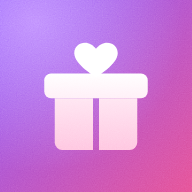
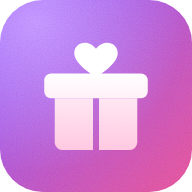
앱 인트로 화면 제거, 스플래시 아이콘 모서리 굴리기, 썸네일 테두리
설치형 PWA는 앱을 켤 때 브라우저가 먼저 제 스플래시(아이콘 + 앱 이름)를 띄운다.
그 뒤에 우리 인트로가 또 나와 같은 인사를 두 번 하고 있었다. 브라우저 것은 끌 수
없으므로 우리 것을 뺐다(최소 1.8초 대기도 같이 사라진다). 준비되는 동안에는
조용한 로딩 화면만 쓴다.

브라우저 스플래시는 매니페스트 아이콘을 마스크 없이 그대로 얹는다. 런처용으로
모서리를 비워둔 파일이라 정사각형으로 나와 깨져 보였다. purpose=any 인 192·512
PNG에만 모서리를 구워 넣는다. 마스커블과 apple-touch-icon은 플랫폼이 직접
깎으므로 그대로 둔다(두 번 깎이면 가장자리가 지저분해진다).

썸네일에는 아주 연한 테두리를 넣었다. 흰 배경 상품 사진이 카드와 경계가 없어
허공에 떠 보였다.

diff --git a/client/src/components/AuthGate.jsx b/client/src/components/AuthGate.jsx
@@ -6,34 +6,13 @@ import { FamilyContext } from '../FamilyContext';
 import LoginScreen from './LoginScreen';
 import FamilyOnboarding from './FamilyOnboarding';
 import ConsentScreen from './ConsentScreen';
-import SplashScreen from './SplashScreen';
 import LoadingScreen from './LoadingScreen';
 
-// 스플래시가 깜빡이고 사라지면 오히려 산만해서, 한 번 뜨면 최소 이 시간만큼은 보여준다.
-const MIN_SPLASH_MS = 1800;
-
-// 인트로 스플래시는 "앱을 켰을 때 한 번"만 보여준다.
-// 구글/네이버 로그인은 외부 페이지로 나갔다 돌아오는 리다이렉트 방식이라 앱이 통째로 새로
-// 로드되는데, 그때마다 인트로가 다시 뜨면 성가시다. sessionStorage는 같은 탭(설치형 PWA라면
-// 같은 앱 실행) 안에서는 리다이렉트를 건너뛰어도 유지되므로, 이걸로 "이미 봤음"을 기억한다.
-const SPLASH_SHOWN_KEY = 'moacon:splash-shown';
-
-function readSplashShown() {
-  try {
-    return sessionStorage.getItem(SPLASH_SHOWN_KEY) === '1';
-  } catch {
-    // 사파리 프라이빗 모드 등에서 접근이 막히면 그냥 매번 보여준다.
-    return false;
-  }
-}
-
-function markSplashShown() {
-  try {
-    sessionStorage.setItem(SPLASH_SHOWN_KEY, '1');
-  } catch {
-    // 저장 못 해도 동작에는 지장 없다.
-  }
-}
+// 예전에는 여기서 로고와 한 줄 소개를 보여주는 인트로 화면을 최소 1.8초 띄웠다.
+// 그런데 설치형 PWA는 앱을 켤 때 브라우저가 먼저 제 스플래시(아이콘 + 앱 이름)를
+// 띄우기 때문에, 우리 인트로가 그 뒤에 또 나와 같은 인사를 두 번 하는 꼴이었다.
+// 브라우저 것은 우리가 끌 수 없으므로 우리 것을 뺐다. 준비되는 동안에는 조용한
+// 로딩 화면만 쓴다.
 
 // 여러 가족에 속해 있을 수 있어서, 마지막으로 보던 가족을 기억해뒀다가 다음에도 그대로 연다.
 const LAST_FAMILY_KEY = 'moacon:family-id';
@@ -74,19 +53,6 @@ export default function AuthGate({ children }) {
   // 다시 읽어온 가족 정보와 견주어 볼 "지금 값". 비교만 하는 용도라 화면을 다시 그리지 않는다.
   const familyRef = useRef(familyState);
   familyRef.current = familyState;
-  // 이번 화면 로드 이전에 이미 인트로를 봤는지(= 로그인 리다이렉트 등으로 돌아온 상황인지).
-  const [introShownBefore] = useState(readSplashShown);
-  const [splashDone, setSplashDone] = useState(introShownBefore);
-
-  useEffect(() => {
-    if (splashDone) return;
-    markSplashShown();
-    const timer = setTimeout(() => setSplashDone(true), MIN_SPLASH_MS);
-    return () => clearTimeout(timer);
-    // 최초 마운트에서만 판단하면 되는 값이라 의존성은 비워둔다.
-    // eslint-disable-next-line react-hooks/exhaustive-deps
-  }, []);
-
   useEffect(() => {
     getSession().then(setSession);
     return onAuthStateChange(setSession);
@@ -184,11 +150,8 @@ export default function AuthGate({ children }) {
     if (next) setFamilyState(next);
   }
 
-  // 앱을 처음 켠 순간에는 준비가 끝날 때까지 인트로를 계속 보여주고(화면이 갈아끼워지지 않게),
-  // 그 뒤의 대기 상황에서는 조용한 로딩 화면만 쓴다.
-  const waitingScreen = introShownBefore ? <LoadingScreen /> : <SplashScreen />;
+  const waitingScreen = <LoadingScreen />;
 
-  if (!splashDone) return <SplashScreen />;
   if (session === undefined) return waitingScreen;
   if (!session) return <LoginScreen />;
   if (agreed === undefined) return waitingScreen;

diff --git a/client/src/components/GifticonCard.jsx b/client/src/components/GifticonCard.jsx
@@ -80,7 +80,9 @@ export default function GifticonCard({
             보여주는 건 올린 사진 전체가 아니라 상품 사진만 잘라낸 것(thumb_image_url)이다.
             대개 선물함 화면을 통째로 찍은 캡처라, 68px로 줄이면 글자와 버튼까지 뭉개져 들어가
             무슨 상품인지 알아볼 수 없다. 못 잘라낸 것은 예전처럼 첫 사진을 그대로 쓴다. */}
-        <span className="pointer-events-none relative flex size-17 shrink-0 items-center justify-center overflow-hidden rounded-xl bg-accent">
+        {/* 흰 배경 상품 사진은 카드와 경계가 없어 허공에 떠 보인다. 아주 연한 선으로
+            "여기까지가 사진"이라고만 알려준다. 진하면 사진보다 테두리가 먼저 보인다. */}
+        <span className="pointer-events-none relative flex size-17 shrink-0 items-center justify-center overflow-hidden rounded-xl border border-border bg-accent">
           {thumbUrl ? (
             <img src={thumbUrl} alt={gifticon.name} className="h-full w-full object-cover" />
           ) : (

diff --git a/client/src/index.css b/client/src/index.css
@@ -156,7 +156,7 @@
   scrollbar-width: none;
 }
 
-/* 진입 화면(스플래시)에서 로고가 살짝 떠오르며 나타나는 효과 */
+/* 알림창이 살짝 떠오르며 나타나는 효과 */
 @keyframes splash-in {
   from {
     opacity: 0;
@@ -185,8 +185,4 @@
 
 .animate-progress-indeterminate {
   animation: progress-indeterminate 1.1s ease-in-out infinite;
-}
-
-.animate-splash-in-delayed {
-  animation: splash-in 0.45s ease-out 0.12s both;
 }
